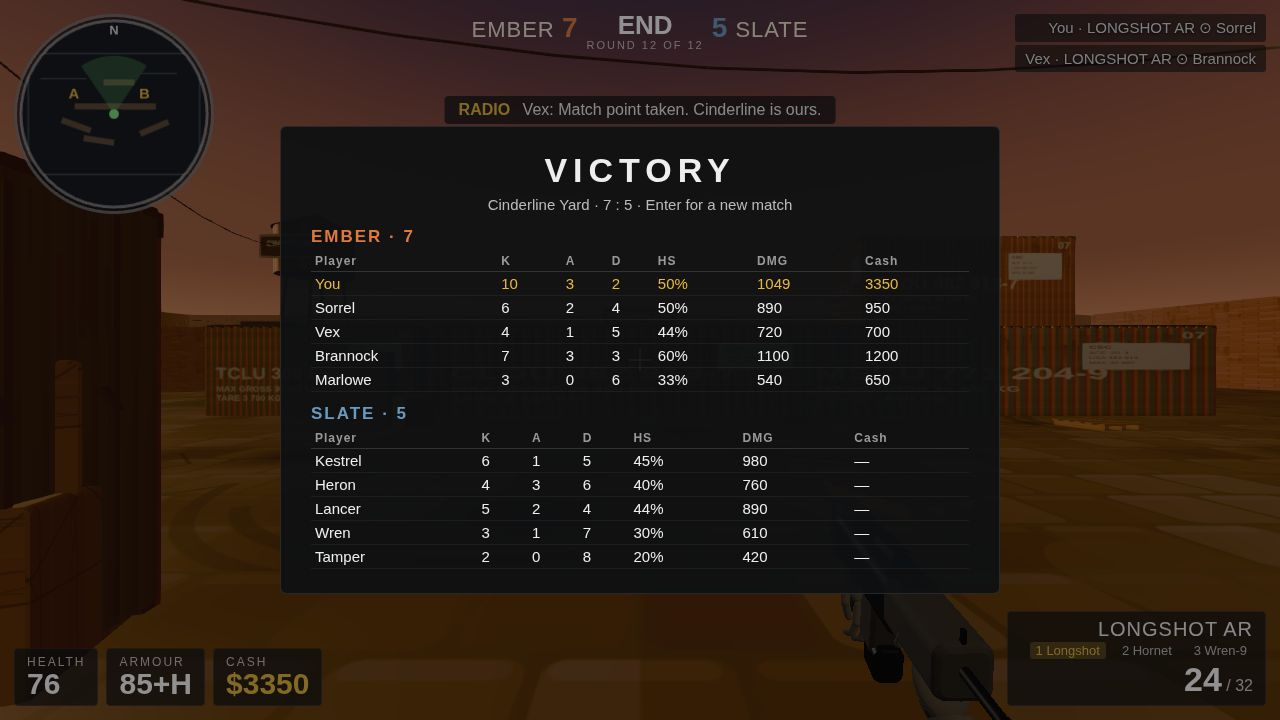
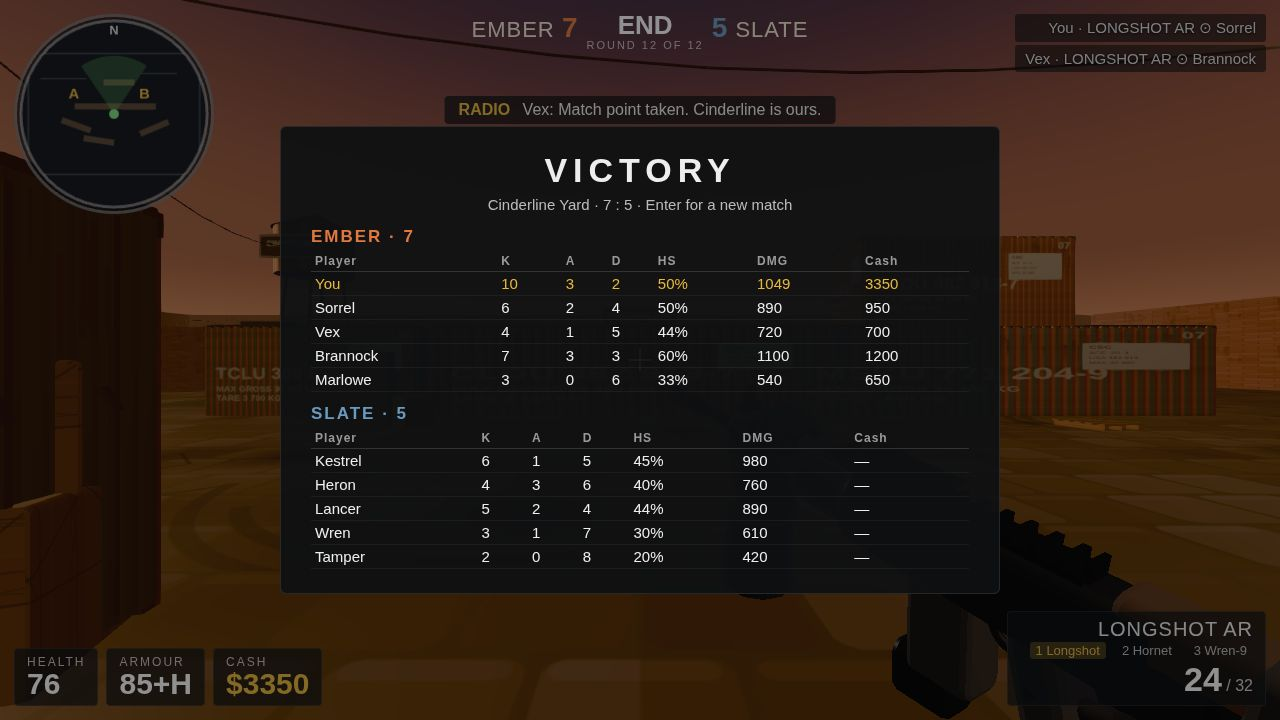
fix: viewmodel reads as a rifle, not a black log (user: gada bedanya)
- Slim rifle profile: receiver 0.055x0.075 -> 0.048x0.062, handguard
  0.062 -> 0.050 (slimmer than receiver); taller rail teeth (0.010) and
  front sight post + wings so details read at 1280x720.
- Receiver gunmetal (metalness 0.9 -> 0.55): a pure metal reflected the
  dark dusk sky and read pure black; now the side face lifts to dark grey.
  Side details on the camera-facing (+X) face: silver bolt in the
  ejection port, selector disc, two pins, mag release.
- Black gloves (was cream 0x4a4438): chunkier palm (r 0.052), thicker
  fingers, longer cuff/sleeve — the glove is the focal point, like the
  CS reference. Finger lengths/curls unchanged, grip contact unchanged
  (probe: trigger distToBox 0.0156, support tip 0.062 above handguard).
- VM moved closer (z -1.5 -> -0.70) + rotX 0.30: stock out of frame
  (butt 1302,751), muzzle near crosshair (670,390, 42 px), angle 29.7 deg
  (CS 29.1 deg). Tracer start recomputed from the new muzzle screen pos.
- Camera-side fill light for the diffuse parts.
- Principles only from Kilnyard top-1 (thin barrel, readable hand,
  stock out of frame); design stays Cinderline Yard Longshot AR.

Changed region(s): [[0.6562, 0.7028, 1.0, 1.0], [0.5938, 0.825, 0.625, 0.8556]]

diff --git a/game/src/weapon.js b/game/src/weapon.js
@@ -5,9 +5,14 @@ import { chamferBox, box, lathe, capsule, ball } from './geom.js';
 import { flashTex, smokeTex } from './textures.js';
 
 export const MAT = {
-  steel: new THREE.MeshStandardMaterial({ color: 0x3a3d40, metalness: 0.9, roughness: 0.4 }),
-  steelDark: new THREE.MeshStandardMaterial({ color: 0x1c1e20, metalness: 0.85, roughness: 0.45 }),
-  polymer: new THREE.MeshStandardMaterial({ color: 0x2e2a26, metalness: 0.0, roughness: 0.8 }),
+  steel: new THREE.MeshStandardMaterial({ color: 0x4b4f53, metalness: 0.9, roughness: 0.38 }),
+  steelDark: new THREE.MeshStandardMaterial({ color: 0x26282b, metalness: 0.85, roughness: 0.45 }),
+  // receiver gunmetal: metalness 0.55 (was steel 0.9) — a near-pure metal
+  // reflects the dark dusk sky from the camera side and reads PURE BLACK.
+  // Lower metalness lets the VM lights lift the side face to dark grey.
+  receiver: new THREE.MeshStandardMaterial({ color: 0x565a5e, metalness: 0.55, roughness: 0.5 }),
+  bolt: new THREE.MeshStandardMaterial({ color: 0x9a9da0, metalness: 0.9, roughness: 0.3 }),
+  polymer: new THREE.MeshStandardMaterial({ color: 0x38322c, metalness: 0.0, roughness: 0.8 }),
   wood: new THREE.MeshStandardMaterial({ color: 0x5e3d22, metalness: 0.0, roughness: 0.7 }),
   brass: new THREE.MeshStandardMaterial({ color: 0x8a6d3b, metalness: 0.9, roughness: 0.35 }),
   lens: new THREE.MeshStandardMaterial({ color: 0x2a3a48, metalness: 0.4, roughness: 0.15, envMapIntensity: 1.4 }),
@@ -21,17 +26,22 @@ export function buildRifle(opts = {}) {
   const add = (m, x = 0, y = 0, z = 0) => { m.position.set(x, y, z); g.add(m); parts.push(m); return m; };
 
   // 1. receiver — extruded rounded slab (the body everything hangs from)
-  const receiver = chamferBox(0.055, 0.075, 0.34, 0.012, MAT.steel);
+  // FIX VM-LOOK (16 Nov): was 0.055 x 0.075 — a fat black slab that merged
+  // with the handguard into one black log on screen. Slimmed to 0.048 x 0.062
+  // (CS proportions) so the magazine, rail and trigger break the silhouette.
+  const receiver = chamferBox(0.048, 0.062, 0.32, 0.012, MAT.receiver);
   add(receiver, 0, 0, 0);
   // 2. barrel — lathe, stepped profile
   const barrel = lathe([[0.011, 0], [0.011, 0.16], [0.008, 0.17], [0.008, 0.30], [0.010, 0.31], [0.010, 0.33]], MAT.steelDark);
   barrel.rotation.x = Math.PI / 2; // lathe Y -> +Z
   add(barrel, 0, 0.012, 0.17);
   // 3. handguard — chamfered box with vent slots (slots as thin dark insets)
-  const hg = chamferBox(0.062, 0.062, 0.22, 0.01, MAT.polymer);
+  // FIX VM-LOOK: was 0.062 x 0.062 (chunkier than the receiver — the main
+  // "black log" mass). Slimmed to 0.050 x 0.050, slimmer than the receiver.
+  const hg = chamferBox(0.050, 0.050, 0.22, 0.01, MAT.polymer);
   add(hg, 0, 0.008, 0.26);
   for (let i = 0; i < 4; i++) {
-    add(box(0.064, 0.012, 0.02, MAT.steelDark), 0, 0.02, 0.19 + i * 0.045);
+    add(box(0.052, 0.010, 0.02, MAT.steelDark), 0, 0.02, 0.19 + i * 0.045);
   }
   // 4. magazine — tapered, slightly curved look via two stacked boxes
   const mag1 = chamferBox(0.042, 0.11, 0.075, 0.008, MAT.polymer);
@@ -60,20 +70,39 @@ export function buildRifle(opts = {}) {
   const lens = new THREE.Mesh(new THREE.CircleGeometry(0.017, 20), MAT.lens);
   add(lens, 0, 0.058, 0.132);
   // 13-14. iron sights
-  const fs = box(0.006, 0.035, 0.008, MAT.steelDark);
-  add(fs, 0, 0.05, 0.36);
+  // FIX VM-LOOK: the old post (0.006 x 0.035) was sub-pixel at VM distance.
+  // Taller post + protective wings so the front sight READS like the CS one.
+  const fs = box(0.010, 0.048, 0.010, MAT.steelDark);
+  add(fs, 0, 0.056, 0.36);
+  add(box(0.004, 0.022, 0.010, MAT.steelDark), -0.013, 0.044, 0.36);
+  add(box(0.004, 0.022, 0.010, MAT.steelDark), 0.013, 0.044, 0.36);
   const rs = box(0.03, 0.025, 0.006, MAT.steelDark);
   add(rs, 0, 0.05, -0.10);
   // 15. top rail (Picatinny): thin bar + teeth
+  // FIX VM-LOOK: teeth were 0.006 tall (invisible). Now 0.010 so the rail
+  // reads as a separate serrated line above the handguard, not a black blob.
   const rail = box(0.04, 0.012, 0.30, MAT.steelDark);
   add(rail, 0, 0.043, 0.05);
   for (let i = 0; i < 12; i++) {
-    add(box(0.042, 0.006, 0.008, MAT.steelDark), 0, 0.051, -0.08 + i * 0.024);
+    add(box(0.044, 0.010, 0.008, MAT.steelDark), 0, 0.053, -0.08 + i * 0.024);
   }
   // 16. charging handle
   add(box(0.05, 0.012, 0.02, MAT.steelDark), 0, 0.038, -0.155);
-  // 17. ejection port (dark inset on the side)
+  // 17. ejection port (dark inset on the side) + silver bolt inside it
+  // FIX VM-LOOK: the old port was a 0.002 dark slab — invisible, so the
+  // receiver side was one flat black plane. The silver bolt + selector + pins
+  // below break the side face up so it reads as a rifle, not a black log.
+  // All on the local +X side (x +0.024..0.028): that side faces the VM camera.
   add(box(0.002, 0.03, 0.07, MAT.steelDark), 0.028, 0.005, 0.06);
+  add(box(0.005, 0.018, 0.05, MAT.bolt), 0.027, 0.005, 0.06);
+  // 17b. selector switch (disc) + takedown pins + mag release, camera side
+  const sel = new THREE.Mesh(new THREE.CylinderGeometry(0.009, 0.009, 0.006, 12), MAT.steelDark);
+  sel.rotation.z = Math.PI / 2; add(sel, 0.026, -0.005, -0.05);
+  for (const [py, pz] of [[0.012, 0.12], [-0.012, -0.13]]) {
+    const pin = new THREE.Mesh(new THREE.CylinderGeometry(0.005, 0.005, 0.004, 10), MAT.steel);
+    pin.rotation.z = Math.PI / 2; add(pin, 0.026, py, pz);
+  }
+  add(box(0.004, 0.012, 0.015, MAT.steelDark), 0.026, -0.022, -0.01);
   // 18. muzzle brake
   const brake = lathe([[0.014, 0], [0.014, 0.045], [0.011, 0.05]], MAT.steel);
   brake.rotation.x = Math.PI / 2; add(brake, 0, 0.012, 0.50);
@@ -102,12 +131,17 @@ export function buildRifle(opts = {}) {
 // ---- a hand: rounded palm, 4 three-segment curled fingers, thumb, cuff ----
 // The hand's local +Z is "forward" (direction the fingers point when flat);
 // fingers curl toward -Y (closing around a grip). Scale ~1 = adult hand.
-export function buildHand(glove = 0x4a4438, skin = 0x8a6f56) {
+export function buildHand(glove = 0x17171a, skin = 0x8a6f56) {
   const g = new THREE.Group();
   const gloveMat = new THREE.MeshStandardMaterial({ color: glove, metalness: 0, roughness: 0.85 });
   const skinMat = new THREE.MeshStandardMaterial({ color: skin, metalness: 0, roughness: 0.7 });
   // palm: flattened sphere
-  const palm = ball(0.042, gloveMat);
+  // FIX VM-LOOK (16 Nov): palm was r 0.042 — the hands read small and pale
+  // against the rifle. Chunkier palm (r 0.052) + thicker fingers + longer
+  // cuff/sleeve so the BLACK glove is the focal point, like the CS reference.
+  // Finger LENGTHS and curls are unchanged, so the fingertip positions (and
+  // the grip contact the probe verifies) do not move.
+  const palm = ball(0.052, gloveMat);
   palm.scale.set(1.05, 0.45, 1.25);
   palm.position.set(0, 0, 0.01);
   g.add(palm);
@@ -130,7 +164,7 @@ export function buildHand(glove = 0x4a4438, skin = 0x8a6f56) {
       seg.position.set(0, 0, s === 0 ? 0 : lens[s - 1]);
       seg.rotation.x = s === 0 ? 0 : curls[s - 1];
       parent.add(seg);
-      const cap = capsule(new THREE.Vector3(0, 0, 0), new THREE.Vector3(0, 0, lens[s]), 0.0085 - s * 0.0012, gloveMat);
+      const cap = capsule(new THREE.Vector3(0, 0, 0), new THREE.Vector3(0, 0, lens[s]), 0.0115 - s * 0.0015, gloveMat);
       seg.add(cap);
       segs.push(seg);
       parent = seg;
@@ -144,16 +178,18 @@ export function buildHand(glove = 0x4a4438, skin = 0x8a6f56) {
   thumbBase.position.set(-0.042, -0.005, 0.01);
   thumbBase.rotation.set(0.5, 0, 0.9);
   g.add(thumbBase);
-  const th1 = capsule(new THREE.Vector3(0, 0, 0), new THREE.Vector3(0, 0, 0.03), 0.009, gloveMat);
+  const th1 = capsule(new THREE.Vector3(0, 0, 0), new THREE.Vector3(0, 0, 0.03), 0.012, gloveMat);
   thumbBase.add(th1);
   const th2 = new THREE.Group();
   th2.position.set(0, 0, 0.03); th2.rotation.x = 0.7;
   thumbBase.add(th2);
-  th2.add(capsule(new THREE.Vector3(0, 0, 0), new THREE.Vector3(0, 0, 0.028), 0.008, gloveMat));
-  // cuff at the wrist
-  const cuff = new THREE.Mesh(new THREE.CylinderGeometry(0.032, 0.036, 0.035, 12), gloveMat);
+  th2.add(capsule(new THREE.Vector3(0, 0, 0), new THREE.Vector3(0, 0, 0.028), 0.011, gloveMat));
+  // cuff + sleeve at the wrist: longer than before so the forearm reads as
+  // part of the glove mass (CS: the sleeve runs from the wrist to the frame
+  // edge). The cuff is on the hand's -Z side, away from the fingers.
+  const cuff = new THREE.Mesh(new THREE.CylinderGeometry(0.042, 0.048, 0.10, 12), gloveMat);
   cuff.rotation.x = Math.PI / 2;
-  cuff.position.set(0, 0, -0.055);
+  cuff.position.set(0, 0, -0.085);
   g.add(cuff);
   // fingertip marker (used by the socket probe): tip of the middle finger
   const tip = new THREE.Object3D();

diff --git a/game/src/main.js b/game/src/main.js
@@ -107,6 +107,12 @@ vmScene.add(vmLight);
 const vmFill = new THREE.DirectionalLight(0xfff0d0, 0.7);
 vmFill.position.set(-0.5, 0.2, -0.8);
 vmScene.add(vmFill);
+// FIX VM-LOOK: fill from behind the VM camera — lifts the polymer handguard /
+// grip faces that point at the lens (the steel receiver is fixed by its own
+// gunmetal material; this light is for the diffuse parts).
+const vmCamFill = new THREE.DirectionalLight(0xfff2e0, 0.55);
+vmCamFill.position.set(0.2, 0.3, 0.9);
+vmScene.add(vmCamFill);
 const vmRifle = buildRifle();
 // FIX ROUND (16 Nov): VM was ~35% of frame width. Moved farther (z -1.0->-1.3),
 // right (x 0.36->0.44) and down (y -0.33->-0.38) so the visible rifle is
@@ -121,8 +127,16 @@ const vmRifle = buildRifle();
 // axis 28.4 deg from horizontal, handguard (766,495). Hands are children of
 // the rifle group, so the grip fix (trigger 0.000-0.007 m, support fingers
 // over the top rail) is preserved unchanged by the re-stage.
-vmRifle.group.position.set(0.44, -0.38, -1.5);
-vmRifle.group.rotation.set(0.20, -2.60, 0);
+// FIX VM-LOOK (16 Nov): the rifle read as a fat black log, not a rifle.
+// Position moved much closer (z -1.5 -> -0.70) + right/down so the STOCK is
+// out of frame bottom-right (butt (1302,751)) while the muzzle stays near the
+// crosshair (670,390, 42 px away) and the big black support hand sits at
+// frame centre-bottom (762,486) as the focal point, like the CS reference.
+// rotX 0.20 -> 0.30: moving closer flattened the screen angle 28.2 -> 25.8 deg;
+// 0.30 restores 29.7 deg (CS 29.1 deg). Probe-verified (node, vmCamera 54 FOV).
+// Grip contact unchanged (hands are children of the rifle; probe dR/dL same).
+vmRifle.group.position.set(0.338, -0.203, -0.70);
+vmRifle.group.rotation.set(0.30, -2.60, 0);
 vmScene.add(vmRifle.group);
 // viewmodel hands on the sockets (children of the rifle, so they move with it)
 // FIX HAND (16 Nov): the trigger hand DANGLLED below the pistol grip and the
@@ -135,11 +149,11 @@ vmScene.add(vmRifle.group);
 // hook. After the fix (same probe): trigger fingertips 0.000-0.007 m from the
 // grip surface, support fingertips 0.001-0.021 m from the foregrip, palms in
 // contact with the grip's back-left corner. Do NOT move the rifle itself.
-const vmHandR = buildHand(0x4a4438);
+const vmHandR = buildHand(0x17171a); // FIX VM-LOOK: black glove (was 0x4a4438 cream) — CS focal point
 vmHandR.group.position.copy(vmRifle.gripSocket.position).add(new THREE.Vector3(-0.038, 0.034, -0.064));
 vmHandR.group.rotation.set(0.35, 0, Math.PI / 2);
 vmRifle.group.add(vmHandR.group);
-const vmHandL = buildHand(0x4a4438);
+const vmHandL = buildHand(0x17171a); // FIX VM-LOOK: black glove (was 0x4a4438 cream)
 // FIX HANDGUARD (16 Nov, referensi CS user 13:36 WIB): tangan support HARUS
 // menggenggam HANDGUARD seperti referensi — jari melengkung KE ATAS melewati
 // rel atas, jempol di sisi samping. Bukan di foregrip vertikal (pose lama:

diff --git a/game/src/game.js b/game/src/game.js
@@ -403,7 +403,11 @@ export class Game {
       // unprojects to (694,458) at 1.9 m (probe-verified). The tracer now
       // runs ~205 px diagonally to e1 — shorter, but still a clear diagonal,
       // not a stub.
-      this.spawnTracer(new THREE.Vector3(0.097, 1.278, 10.134), new THREE.Vector3(-2.5, 1.35, 5));
+      // FIX VM-LOOK (16 Nov): the VM moved closer (muzzle now (670,390)),
+      // so the start point moves again: (0.005,1.539,10.102) unprojects to
+      // (670,390) at 1.9 m (probe-verified). The tracer runs from the muzzle
+      // to e1 — longer than the 205 px staging version.
+      this.spawnTracer(new THREE.Vector3(0.005, 1.539, 10.102), new THREE.Vector3(-2.5, 1.35, 5));
       this.hud.setScore(3, 5, '1:20', 9);
     } else if (name === 'buy') {
       this.state = 'buy';
